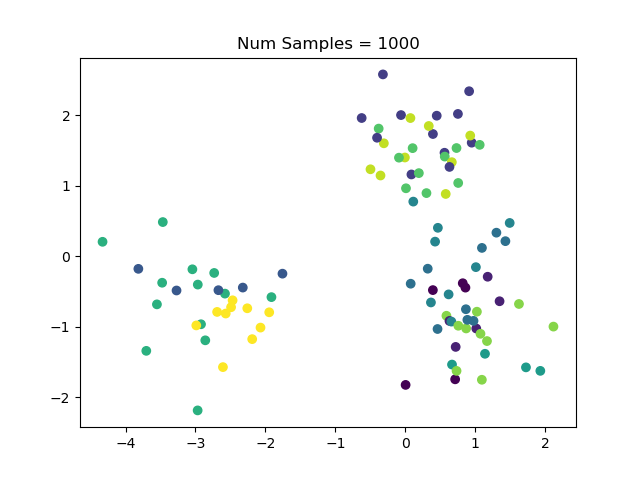
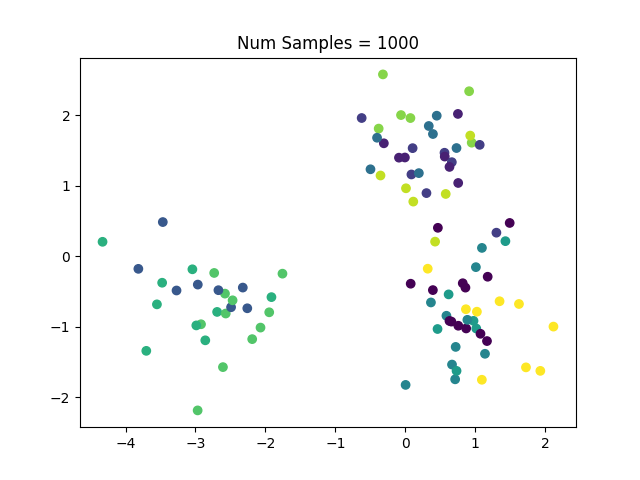
Testing whether HMC Gibbs works for Mixture of Gaussians

diff --git a/utils/inference_mix_of_gauss.py b/utils/inference_mix_of_gauss.py
@@ -1,5 +1,6 @@
 from jax import random
 import jax.numpy as jnp
+import matplotlib.pyplot as plt
 import numpy as np
 import numpyro
 import numpyro.infer
@@ -258,7 +259,6 @@ def sampling_hmc_gibbs(observations,
                        gaussian_mean_prior_cov_scaling: float,
                        sampling_max_num_clusters=None,
                        burn_fraction: float = 0.25):
-
     num_obs, obs_dim = observations.shape
 
     if sampling_max_num_clusters is None:
@@ -303,17 +303,22 @@ def sampling_hmc_gibbs(observations,
     samples = mcmc.get_samples()
 
     # shape (num samples, num centroids, obs dim)
-    params = dict(means=np.array(samples['mean']))
+    params = dict(means=np.mean(np.array(samples['mean']), axis=0))
     # shape (num samples, num obs)
-    table_assignment_posteriors = np.array(samples['z'])
+    sampled_table_assignments = np.array(samples['z'])
+    # convert sampled cluster assignments from (num samples, num obs) to (num obs, num clusters)
+    bins = np.arange(0, 2 + np.max(sampled_table_assignments))
+    table_assignment_posteriors = np.stack([
+        np.histogram(sampled_table_assignments[:, obs_idx], bins=bins, density=True)[0]
+        for obs_idx in range(num_obs)])
     table_assignment_posteriors_running_sum = np.cumsum(table_assignment_posteriors,
                                                         axis=0)
-    import matplotlib.pyplot as plt
-    # plt.imshow(table_assignment_posteriors, cmap='jet')
+
+    # plt.imshow(sampled_table_assignments, cmap='jet')
     # plt.show()
     plt.scatter(x=observations[:, 0],
                 y=observations[:, 1],
-                c=table_assignment_posteriors[-1, :])
+                c=sampled_table_assignments[-1, :])
     plt.title(f'Num Samples = {num_samples}')
     plt.savefig(f'exp_01_mixture_of_gaussians/plots/num_samples={num_samples}.png')
     # plt.show()
@@ -347,11 +352,8 @@ def variational_bayes(observations,
     table_assignment_posteriors = var_dp_gmm.predict_proba(observations)
     table_assignment_posteriors_running_sum = np.cumsum(table_assignment_posteriors,
                                                         axis=0)
-
     params = dict(means=var_dp_gmm.means_,
-                  covs=np.repeat(var_dp_gmm.covariances_[np.newaxis, :, :],
-                                 repeats=num_obs,
-                                 axis=0))
+                  covs=var_dp_gmm.covariances_)
 
     # returns classes assigned and centroids of corresponding classes
     variational_results = dict(

diff --git a/exp_01_mixture_of_gaussians/main.py b/exp_01_mixture_of_gaussians/main.py
@@ -33,6 +33,10 @@ def main():
                                           gaussian_samples_seq=sampled_mog_results['gaussian_samples_seq'],
                                           plot_dir=plot_dir)
 
+    # variational_bayes_results = run_and_plot_variational_bayes(
+    #     sampled_mog_results=sampled_mog_results,
+    #     plot_dir=plot_dir)
+
     hmc_gibbs_results = run_and_plot_hmc_gibbs_sampling(
         sampled_mog_results=sampled_mog_results,
         plot_dir=plot_dir,
@@ -258,19 +262,19 @@ def run_and_plot_hmc_gibbs_sampling(sampled_mog_results,
             gaussian_mean_prior_cov_scaling=gaussian_mean_prior_cov_scaling)
 
         # # score clusters
-        # scores, pred_cluster_labels = score_predicted_clusters(
-        #     true_cluster_labels=sampled_mog_results['assigned_table_seq'],
-        #     table_assignment_posteriors=nuts_sampling_results['table_assignment_posteriors'])
-        # scores_by_num_samples[num_samples] = scores
+        scores, pred_cluster_labels = score_predicted_clusters(
+            true_cluster_labels=sampled_mog_results['assigned_table_seq'],
+            table_assignment_posteriors=nuts_sampling_results['table_assignment_posteriors'])
+        scores_by_num_samples[num_samples] = scores
 
         # count number of clusters
-        # num_clusters_by_num_samples[num_samples] = len(np.unique(pred_cluster_labels))
+        num_clusters_by_num_samples[num_samples] = len(np.unique(pred_cluster_labels))
 
-        # plot_inference_results(
-        #     sampled_mog_results=sampled_mog_results,
-        #     inference_results=nuts_sampling_results,
-        #     inference_alg='nuts_sampling={}'.format(num_samples),
-        #     plot_dir=hmc_gibbs_sampling_plot_dir)
+        plot_inference_results(
+            sampled_mog_results=sampled_mog_results,
+            inference_results=nuts_sampling_results,
+            inference_alg='hmc_gibbs={}'.format(num_samples),
+            plot_dir=hmc_gibbs_sampling_plot_dir)
 
     nuts_sampling_results = dict(
         num_clusters_by_param=num_clusters_by_num_samples
